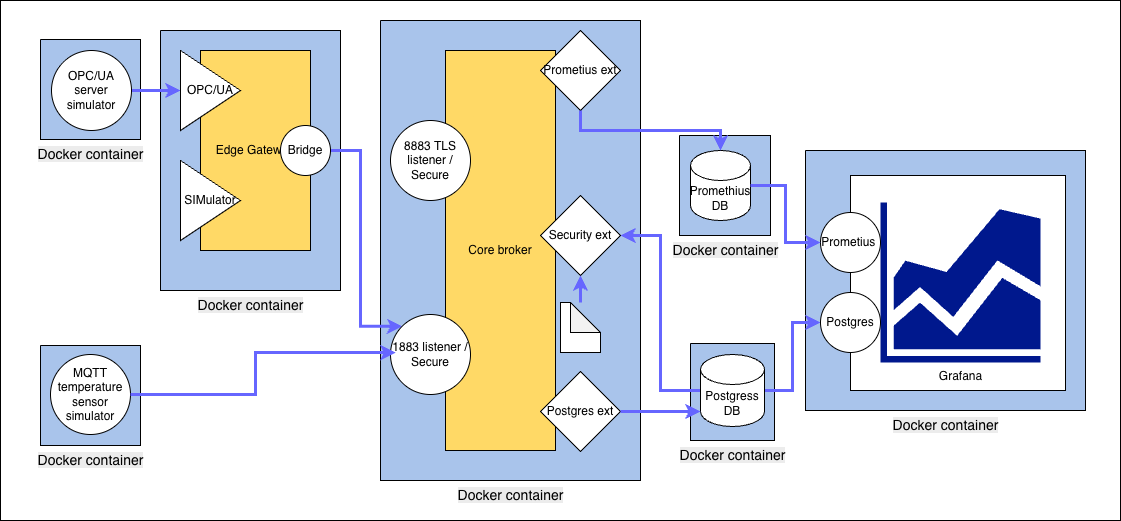
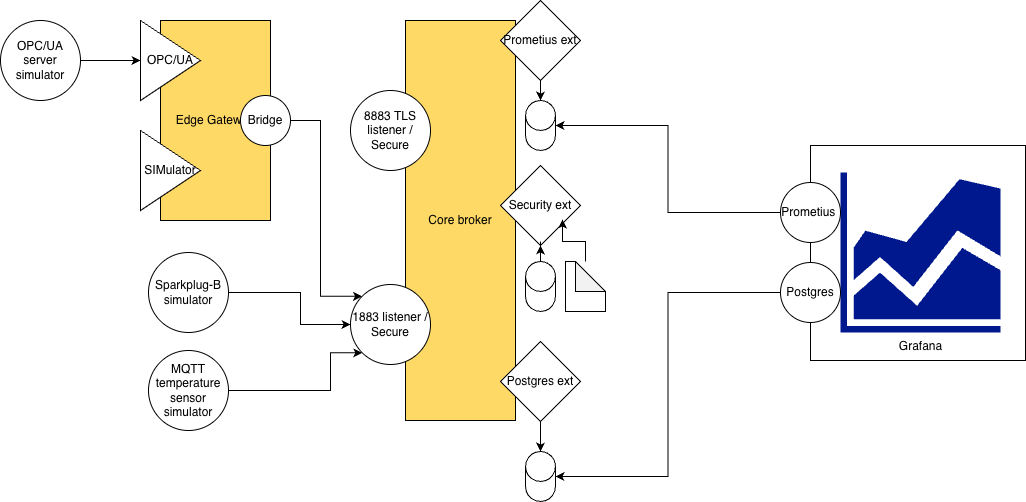
sp-b sim working

diff --git a/SparkPlug-sim/genSP.py b/SparkPlug-sim/genSP.py
@@ -1,16 +1,25 @@
 import time
 import random
+import os
 import paho.mqtt.client as mqtt
 import sparkplug_b_pb2
 
-BROKER = "hivemq"
-PORT = 1883
 
 GROUP_ID = "factory1"
 EDGE_NODE_ID = "edge01"
 
 TOPIC_NBIRTH = f"spBv1.0/{GROUP_ID}/NBIRTH/{EDGE_NODE_ID}"
 TOPIC_NDATA = f"spBv1.0/{GROUP_ID}/NDATA/{EDGE_NODE_ID}"
+
+host = os.getenv("MQTT_HOST", "hivemq")
+port = int(os.getenv("MQTT_PORT", "1883"))
+# topic = os.getenv("MQTT_TOPIC", "sensors/temperature")
+interval = int(os.getenv("INTERVAL", "5"))
+username = os.getenv("MQTT_USER", "SPsim")       # MQTT username
+password = os.getenv("MQTT_PASSWORD", "password")   # MQTT password
+client_id = "Temp-sim"
+
+
 
 seq = 0
 
@@ -76,18 +85,17 @@ def on_connect(client, userdata, flags, rc):
 
 def main():
 
-    client = mqtt.Client()
-
-    client.on_connect = on_connect
-
-    client.connect(BROKER, PORT, 60)
-
+    client = mqtt.Client(mqtt.CallbackAPIVersion.VERSION2, client_id)
+    # client.on_connect = on_connect
+    client.username_pw_set(username=username, password=password)
+    client.connect(host, port, 60)
     client.loop_start()
+
+    publish_nbirth(client)
 
     while True:
         publish_ndata(client)
-        time.sleep(5)
-
+        time.sleep(interval)
 
 if __name__ == "__main__":
     main()

diff --git a/temp-simulator/publisher.py b/temp-simulator/publisher.py
@@ -13,7 +13,7 @@ topic = os.getenv("MQTT_TOPIC", "sensors/temperature")
 interval = int(os.getenv("INTERVAL", "5"))
 username = os.getenv("MQTT_USER", "sensor")       # MQTT username
 password = os.getenv("MQTT_PASSWORD", "password")   # MQTT password
-client_id = "sim"
+client_id = "Temp-sim"
 
 # ----------------------------
 # MQTT Client Setup
